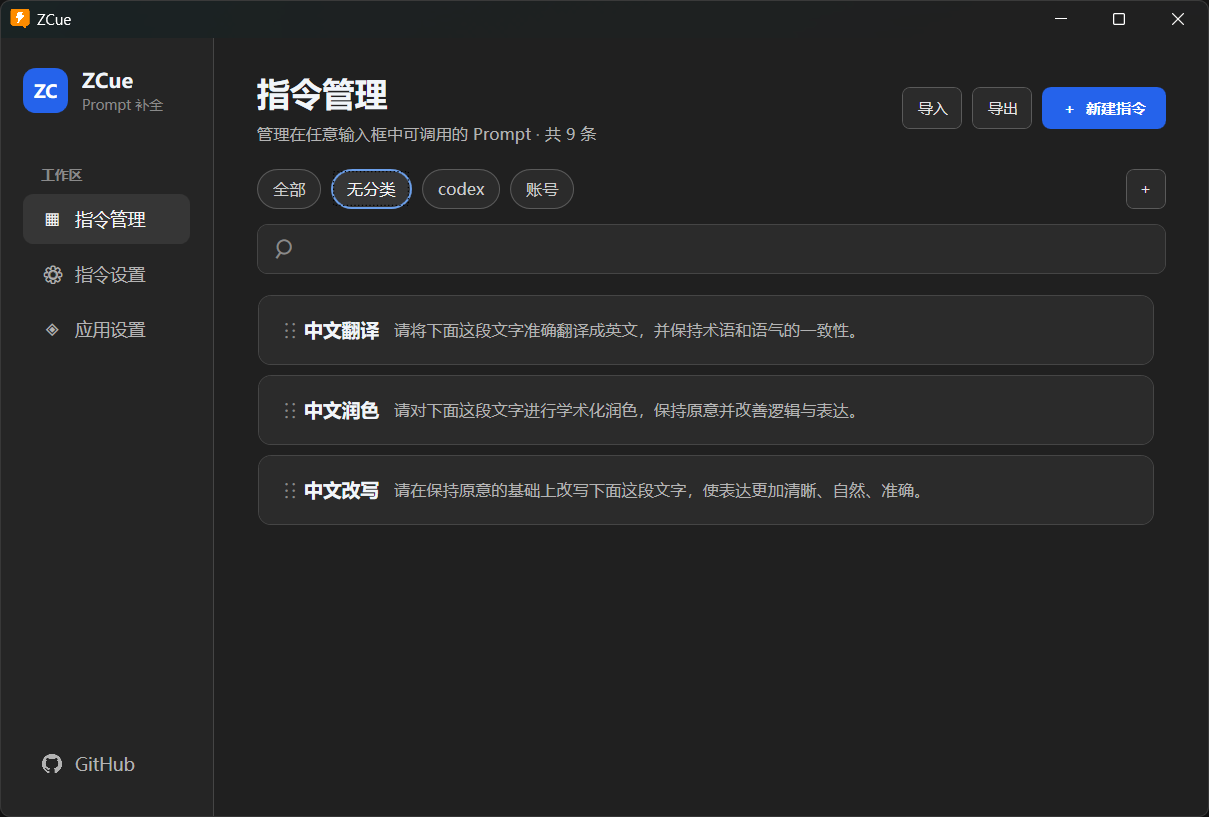
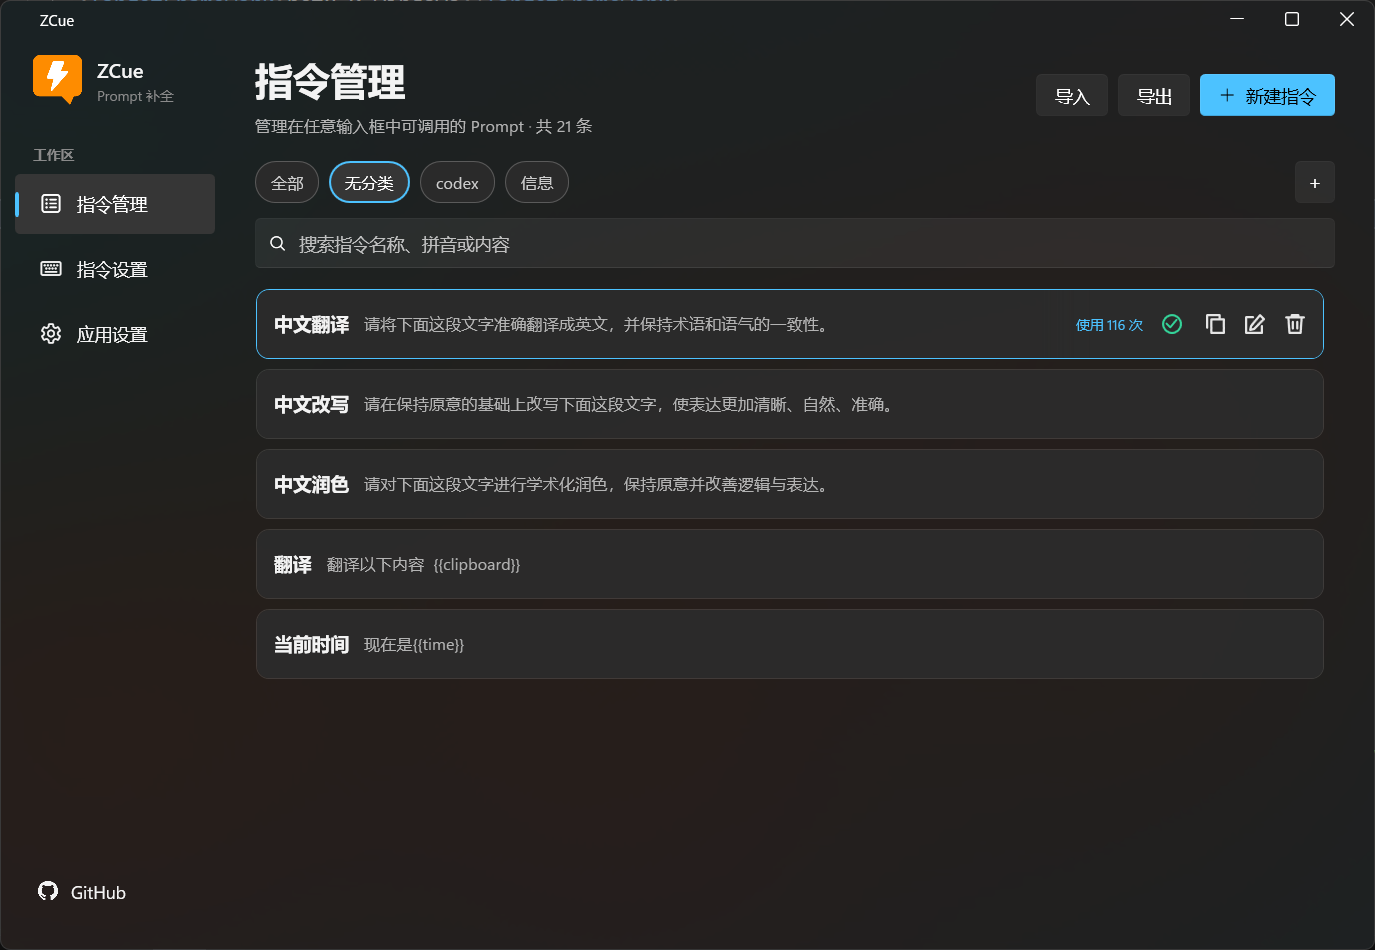
style[1.0.4]: 添加侧栏选中条动画并优化导出选择交互
- 添加侧栏选中条平移与伸缩动画，支持连续切换并遵循系统动画设置。
- 优化导出复选框、勾号和半选横线的尺寸与对齐。
- 修复分类全部选中时，全选复选框误显示半选状态的问题。
- 收窄主题下拉框宽度。

diff --git a/Views/PromptManagerWindow.xaml b/Views/PromptManagerWindow.xaml
@@ -34,7 +34,6 @@
                             <Border x:Name="NavigationSurface" Background="{TemplateBinding Background}" CornerRadius="4" Padding="{TemplateBinding Padding}">
                                 <ContentPresenter VerticalAlignment="Center" HorizontalAlignment="Left" />
                             </Border>
-                            <Border x:Name="SelectionIndicator" Width="3" Height="20" HorizontalAlignment="Left" VerticalAlignment="Center" CornerRadius="2" Background="{DynamicResource AccentFillColorDefaultBrush}" Visibility="Collapsed" />
                         </Grid>
                         <ControlTemplate.Triggers>
                             <Trigger Property="IsMouseOver" Value="True">
@@ -42,9 +41,6 @@
                             </Trigger>
                             <Trigger Property="IsPressed" Value="True">
                                 <Setter TargetName="NavigationSurface" Property="Opacity" Value="0.7" />
-                            </Trigger>
-                            <Trigger Property="Tag" Value="Selected">
-                                <Setter TargetName="SelectionIndicator" Property="Visibility" Value="Visible" />
                             </Trigger>
                         </ControlTemplate.Triggers>
                     </ControlTemplate>
@@ -381,52 +377,64 @@
                         </StackPanel>
                     </StackPanel>
 
-                    <StackPanel Grid.Row="1"
-                                Margin="0,32,0,0">
-                        <TextBlock Text="工作区"
-                                   Foreground="{DynamicResource ThemeTextMutedBrush}"
-                                   FontSize="11"
-                                   FontWeight="SemiBold"
-                                   Margin="14,0,0,9" />
-                        <ui:Button x:Name="CommandsNavigationButton"
-                                Tag="Selected"
-                                Style="{StaticResource NavigationButton}"
-                                Background="{DynamicResource ThemeAccentSurfaceBrush}"
-                                Foreground="{DynamicResource ThemeAccentTextBrush}"
-                                Click="ShowCommandsPage">
-                            <StackPanel Orientation="Horizontal"
-                                        VerticalAlignment="Center">
-                                <ui:SymbolIcon Symbol="TextBulletListSquare24" FontSize="20" Width="22" VerticalAlignment="Center" />
-                                <TextBlock Text="指令管理"
-                                           Margin="10,0,0,0"
-                                           VerticalAlignment="Center" />
-                            </StackPanel>
-                        </ui:Button>
-                        <ui:Button x:Name="SettingsNavigationButton"
-                                Style="{StaticResource NavigationButton}"
-                                Margin="0,4,0,0"
-                                Click="ShowSettingsPage">
-                            <StackPanel Orientation="Horizontal"
-                                        VerticalAlignment="Center">
-                                <ui:SymbolIcon Symbol="Keyboard24" FontSize="20" Width="22" VerticalAlignment="Center" />
-                                <TextBlock Text="指令设置"
-                                           Margin="10,0,0,0"
-                                           VerticalAlignment="Center" />
+                    <Grid x:Name="NavigationHost" Grid.Row="1" Margin="0,32,0,0" SizeChanged="HandleNavigationHostSizeChanged">
+                        <StackPanel>
+                            <TextBlock Text="工作区"
+                                       Foreground="{DynamicResource ThemeTextMutedBrush}"
+                                       FontSize="11"
+                                       FontWeight="SemiBold"
+                                       Margin="14,0,0,9" />
+                            <ui:Button x:Name="CommandsNavigationButton"
+                                    Style="{StaticResource NavigationButton}"
+                                    Background="{DynamicResource ThemeAccentSurfaceBrush}"
+                                    Foreground="{DynamicResource ThemeAccentTextBrush}"
+                                    Click="ShowCommandsPage">
+                                <StackPanel Orientation="Horizontal"
+                                            VerticalAlignment="Center">
+                                    <ui:SymbolIcon Symbol="TextBulletListSquare24" FontSize="20" Width="22" VerticalAlignment="Center" />
+                                    <TextBlock Text="指令管理"
+                                               Margin="10,0,0,0"
+                                               VerticalAlignment="Center" />
                                 </StackPanel>
                             </ui:Button>
-                        <ui:Button x:Name="ApplicationSettingsNavigationButton"
-                                Style="{StaticResource NavigationButton}"
-                                Margin="0,4,0,0"
-                                Click="ShowApplicationSettingsPage">
-                            <StackPanel Orientation="Horizontal"
-                                        VerticalAlignment="Center">
-                                <ui:SymbolIcon Symbol="Settings24" FontSize="20" Width="22" VerticalAlignment="Center" />
-                                <TextBlock Text="应用设置"
-                                           Margin="10,0,0,0"
-                                           VerticalAlignment="Center" />
-                            </StackPanel>
-                        </ui:Button>
-                    </StackPanel>
+                            <ui:Button x:Name="SettingsNavigationButton"
+                                    Style="{StaticResource NavigationButton}"
+                                    Margin="0,4,0,0"
+                                    Click="ShowSettingsPage">
+                                <StackPanel Orientation="Horizontal"
+                                            VerticalAlignment="Center">
+                                    <ui:SymbolIcon Symbol="Keyboard24" FontSize="20" Width="22" VerticalAlignment="Center" />
+                                    <TextBlock Text="指令设置"
+                                               Margin="10,0,0,0"
+                                               VerticalAlignment="Center" />
+                                </StackPanel>
+                            </ui:Button>
+                            <ui:Button x:Name="ApplicationSettingsNavigationButton"
+                                    Style="{StaticResource NavigationButton}"
+                                    Margin="0,4,0,0"
+                                    Click="ShowApplicationSettingsPage">
+                                <StackPanel Orientation="Horizontal"
+                                            VerticalAlignment="Center">
+                                    <ui:SymbolIcon Symbol="Settings24" FontSize="20" Width="22" VerticalAlignment="Center" />
+                                    <TextBlock Text="应用设置"
+                                               Margin="10,0,0,0"
+                                               VerticalAlignment="Center" />
+                                </StackPanel>
+                            </ui:Button>
+                        </StackPanel>
+                        <Border x:Name="NavigationSelectionIndicator"
+                                Width="3" Height="20" CornerRadius="2"
+                                HorizontalAlignment="Left" VerticalAlignment="Top"
+                                Background="{DynamicResource AccentFillColorDefaultBrush}"
+                                Visibility="Collapsed" IsHitTestVisible="False">
+                            <Border.RenderTransform>
+                                <TransformGroup>
+                                    <ScaleTransform x:Name="NavigationIndicatorScale" CenterY="10" />
+                                    <TranslateTransform x:Name="NavigationIndicatorTranslate" />
+                                </TransformGroup>
+                            </Border.RenderTransform>
+                        </Border>
+                    </Grid>
 
                     <ui:Button Grid.Row="2"
                             Style="{StaticResource NavigationButton}"
@@ -1189,7 +1197,7 @@
                                                 <TextBlock TextWrapping="Wrap" Text="选择浅色、深色，或跟随 Windows 外观" Foreground="{DynamicResource ThemeTextSecondaryBrush}" FontSize="12" Margin="0,4,0,0" />
                                             </StackPanel>
                                         </Grid>
-                                        <ComboBox Grid.Column="1" Width="148" Height="36" Padding="12,5,8,5" VerticalContentAlignment="Center" Style="{StaticResource FieldComboBox}" ItemContainerStyle="{StaticResource ThemeComboBoxItem}" SelectedValuePath="Tag" SelectedValue="{Binding ThemeMode, Mode=TwoWay, UpdateSourceTrigger=PropertyChanged}" VerticalAlignment="Center" Margin="24,0,3,0" PreviewMouseWheel="HandleThemeModePreviewMouseWheel">
+                                        <ComboBox Grid.Column="1" Width="120" Height="36" Padding="12,5,8,5" VerticalContentAlignment="Center" Style="{StaticResource FieldComboBox}" ItemContainerStyle="{StaticResource ThemeComboBoxItem}" SelectedValuePath="Tag" SelectedValue="{Binding ThemeMode, Mode=TwoWay, UpdateSourceTrigger=PropertyChanged}" VerticalAlignment="Center" Margin="24,0,3,0" PreviewMouseWheel="HandleThemeModePreviewMouseWheel">
                                             <ComboBoxItem Content="跟随系统" Tag="{x:Static models:AppThemeMode.System}" />
                                             <ComboBoxItem Content="浅色模式" Tag="{x:Static models:AppThemeMode.Light}" />
                                             <ComboBoxItem Content="深色模式" Tag="{x:Static models:AppThemeMode.Dark}" />

diff --git a/Views/PromptExportWindow.xaml b/Views/PromptExportWindow.xaml
@@ -26,21 +26,24 @@
                             <Grid Margin="{TemplateBinding Padding}"
                                   VerticalAlignment="Center">
                                 <Grid.ColumnDefinitions>
-                                    <ColumnDefinition Width="18" />
+                                    <ColumnDefinition Width="20" />
                                     <ColumnDefinition Width="*" />
                                 </Grid.ColumnDefinitions>
                                 <Border x:Name="CheckBoxIndicator"
-                                        Width="18"
-                                        Height="18"
+                                        Width="20"
+                                        Height="20"
                                         Background="{DynamicResource ThemeSurfaceBrush}"
                                         BorderBrush="{DynamicResource ThemeFieldBorderBrush}"
                                         BorderThickness="1"
-                                        CornerRadius="5"
+                                        CornerRadius="4"
                                         VerticalAlignment="Center" />
                                 <Path x:Name="CheckMark"
-                                      Data="M 3,9 L 7,13 L 15,4"
+                                      Data="M 0,5 L 4,9 L 12,0"
+                                      Width="12"
+                                      Height="10"
+                                      Stretch="Fill"
                                       Stroke="{DynamicResource ThemeAccentForegroundBrush}"
-                                      StrokeThickness="2.2"
+                                      StrokeThickness="1.6"
                                       StrokeStartLineCap="Round"
                                       StrokeEndLineCap="Round"
                                       StrokeLineJoin="Round"
@@ -48,10 +51,10 @@
                                       HorizontalAlignment="Center"
                                       VerticalAlignment="Center" />
                                 <Rectangle x:Name="IndeterminateMark"
-                                           Width="9"
-                                           Height="2.5"
-                                           RadiusX="1.25"
-                                           RadiusY="1.25"
+                                           Width="10"
+                                           Height="2"
+                                           RadiusX="1"
+                                           RadiusY="1"
                                            Fill="{DynamicResource ThemeAccentForegroundBrush}"
                                            Visibility="Collapsed"
                                            HorizontalAlignment="Center"
@@ -213,10 +216,11 @@
                 Margin="0,18,0,16"
                 Padding="12">
             <DockPanel LastChildFill="True">
+                <!-- 点击按两态切换；部分选中由分类选择状态统一计算。 -->
                 <CheckBox x:Name="SelectAllCheckBox"
                           DockPanel.Dock="Top"
                           Content="全选分类"
-                          IsThreeState="True"
+                          IsThreeState="False"
                           Style="{StaticResource ExportCheckBox}"
                           FontSize="15"
                           FontWeight="SemiBold"

diff --git a/Views/PromptManagerWindow.xaml.cs b/Views/PromptManagerWindow.xaml.cs
@@ -47,6 +47,8 @@ public partial class PromptManagerWindow : Wpf.Ui.Controls.FluentWindow
     private readonly WpfCursor _grabCursor;
     private readonly WpfCursor _grabbingCursor;
     private bool _allowClose;
+    private WpfButton? _selectedNavigationButton;
+    private bool _navigationIndicatorInitialized;
     private WpfPoint _promptDragStartPoint;
     private WpfPoint _promptDragGrabOffset;
     private string? _pendingPromptDragId;
@@ -104,6 +106,7 @@ public partial class PromptManagerWindow : Wpf.Ui.Controls.FluentWindow
         Closing += HandleClosing;
         Loaded += (_, _) =>
         {
+            UpdateNavigationIndicator(_selectedNavigationButton ?? CommandsNavigationButton, animate: false);
             UpdateEmptyState();
             UpdateBatchSelectionState();
         };
@@ -150,13 +153,74 @@ public partial class PromptManagerWindow : Wpf.Ui.Controls.FluentWindow
         UpdateEmptyState();
     }
 
+    // SECTION 侧栏选中指示动画
+
+    private void HandleNavigationHostSizeChanged(object sender, SizeChangedEventArgs e)
+    {
+        UpdateNavigationIndicator(_selectedNavigationButton ?? CommandsNavigationButton, animate: false);
+    }
+
+    private void UpdateNavigationIndicator(WpfButton selectedButton, bool animate = true)
+    {
+        _selectedNavigationButton = selectedButton;
+        if (!IsLoaded || selectedButton.ActualHeight <= 0)
+        {
+            return;
+        }
+
+        var targetY = selectedButton.TranslatePoint(
+            new WpfPoint(0, (selectedButton.ActualHeight - NavigationSelectionIndicator.Height) / 2),
+            NavigationHost).Y;
+        var currentY = NavigationIndicatorTranslate.Y;
+        var currentScale = NavigationIndicatorScale.ScaleY;
+        if (animate && _navigationIndicatorInitialized
+            && Math.Abs(targetY - (double)NavigationIndicatorTranslate.GetAnimationBaseValue(TranslateTransform.YProperty)) < 0.1)
+        {
+            return;
+        }
+
+        NavigationSelectionIndicator.Visibility = Visibility.Visible;
+        NavigationIndicatorTranslate.Y = targetY;
+        NavigationIndicatorScale.ScaleY = 1;
+        if (animate && _navigationIndicatorInitialized && SystemParameters.ClientAreaAnimation
+            && Math.Abs(targetY - currentY) > 0.1)
+        {
+            // 从当前显示位置接续动画，快速切换页面时也不会跳回上一次起点。
+            var duration = TimeSpan.FromMilliseconds(220);
+            var movement = new DoubleAnimation(currentY, targetY, duration)
+            {
+                EasingFunction = new CubicEase { EasingMode = EasingMode.EaseOut },
+                FillBehavior = FillBehavior.Stop
+            };
+            var stretch = new DoubleAnimationUsingKeyFrames
+            {
+                Duration = duration,
+                FillBehavior = FillBehavior.Stop
+            };
+            stretch.KeyFrames.Add(new DiscreteDoubleKeyFrame(currentScale, KeyTime.FromTimeSpan(TimeSpan.Zero)));
+            stretch.KeyFrames.Add(new EasingDoubleKeyFrame(1.5, KeyTime.FromTimeSpan(TimeSpan.FromMilliseconds(80)),
+                new CubicEase { EasingMode = EasingMode.EaseOut }));
+            stretch.KeyFrames.Add(new EasingDoubleKeyFrame(1, KeyTime.FromTimeSpan(duration),
+                new CubicEase { EasingMode = EasingMode.EaseOut }));
+            NavigationIndicatorTranslate.BeginAnimation(TranslateTransform.YProperty, movement);
+            NavigationIndicatorScale.BeginAnimation(ScaleTransform.ScaleYProperty, stretch);
+        }
+        else
+        {
+            NavigationIndicatorTranslate.BeginAnimation(TranslateTransform.YProperty, null);
+            NavigationIndicatorScale.BeginAnimation(ScaleTransform.ScaleYProperty, null);
+        }
+
+        _navigationIndicatorInitialized = true;
+    }
+
+    // !SECTION 侧栏选中指示动画
+
     // SECTION 页面导航与列表交互
 
     private void ShowCommandsPage(object sender, RoutedEventArgs e)
     {
-        CommandsNavigationButton.Tag = "Selected";
-        SettingsNavigationButton.Tag = null;
-        ApplicationSettingsNavigationButton.Tag = null;
+        UpdateNavigationIndicator(CommandsNavigationButton);
         CommandsPage.Visibility = Visibility.Visible;
         SettingsPage.Visibility = Visibility.Collapsed;
         ApplicationSettingsPage.Visibility = Visibility.Collapsed;
@@ -176,9 +240,7 @@ public partial class PromptManagerWindow : Wpf.Ui.Controls.FluentWindow
 
     private void ShowSettingsPage(object sender, RoutedEventArgs e)
     {
-        CommandsNavigationButton.Tag = null;
-        SettingsNavigationButton.Tag = "Selected";
-        ApplicationSettingsNavigationButton.Tag = null;
+        UpdateNavigationIndicator(SettingsNavigationButton);
         CommandsPage.Visibility = Visibility.Collapsed;
         SettingsPage.Visibility = Visibility.Visible;
         ApplicationSettingsPage.Visibility = Visibility.Collapsed;
@@ -197,9 +259,7 @@ public partial class PromptManagerWindow : Wpf.Ui.Controls.FluentWindow
 
     private void ShowApplicationSettingsPage(object sender, RoutedEventArgs e)
     {
-        CommandsNavigationButton.Tag = null;
-        SettingsNavigationButton.Tag = null;
-        ApplicationSettingsNavigationButton.Tag = "Selected";
+        UpdateNavigationIndicator(ApplicationSettingsNavigationButton);
         CommandsPage.Visibility = Visibility.Collapsed;
         SettingsPage.Visibility = Visibility.Collapsed;
         ApplicationSettingsPage.Visibility = Visibility.Visible;
